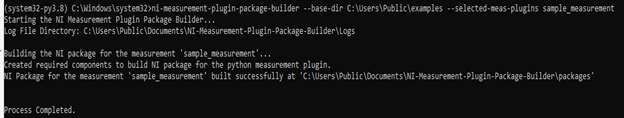
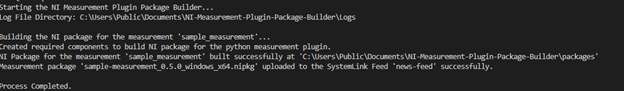
docs: Update HLD images

Changed region(s): [[0.0, 0.0, 1.0, 1.0], [0.0609, 0.0, 0.0913, 0.022]]

diff --git a/docs/HLD/ni_package_builder_hld.md b/docs/HLD/ni_package_builder_hld.md
@@ -119,6 +119,12 @@ Once the required files have been created under the respective folders. The tool
   `ni-measurement-plugin-package-builder --base-dir <measurement_plugin_base_directory> --selected-meas-plugins <list_of_comma_separated_meas_plugins>`
   For example,
   `ni-measurement-plugin-package-builder --base-dir "C:/Users/examples" --selected-meas-plugins "sample_measurement,test_measurement"`
+- To upload the single measurement package to systemlink, run the following command,
+    `ni-measurement-plugin-package-builder --plugin-dir <measurement_plugin_directory> --upload-packages --api-url <systemlink_api_url> --api-key <systemlink_api_key> --workspace <workspace_name> --feed-name <name_of_the_feed>`
+    Example: `ni-measurement-plugin-package-builder --plugin-dir "C:\Users\examples\sample_measurement" --upload-packages --api-url "https://dev-api.lifecyclesolutions.ni.com/" --api-key "123234" --workspace "sample_workspace" --feed-name "example_feed"`
+- To upload the multiple measurement packages to systemlink, run the following command,
+    `ni-measurement-plugin-package-builder --base-dir <measurement_plugin_base_directory> --selected-meas-plugins <list_of_comma_separated_meas_plugins> --upload-packages --api-url <systemlink_api_url> --api-key <systemlink_api_key> --workspace <workspace_name> --feed-name <name_of_the_feed>`
+    Example: `ni-measurement-plugin-package-builder --base-dir "C:\Users\examples" --selected-meas-plugins "sample_measurement,testing_measurement" --upload-packages --api-url "https://dev-api.lifecyclesolutions.ni.com/" --api-key "123234" --workspace "sample_workspace" --feed-name "example_feed"`
 - Input arguments should be provided within double quotes.
 - For building multiple measurements both the required inputs will be required like base directory and selected measurement plugins.
   ![non_interactive_mode](non_interactive_mode.png)
@@ -129,8 +135,12 @@ Once the required files have been created under the respective folders. The tool
   `ni-measurement-plugin-package_builder -i`
 - Users will be prompted to enter the required inputs for building measurements.
 - To build multiple measurement plugins, the parent directory containing the measurement plugin folders must be provided.
+- Users can provide comma separated measurement plugin indexes, for building measurements.
 - The command line interface will show the directory where the .nipkg files are generated.
   ![interactive_mode](interactive_mode.png)
+
+
+Note: For uploading the packages, if the API URL and Workspace are not provided then the `SystemLink client configuration` will be utilized, whereas API key and Feed name must be provided.
 
 ## Alternative implementations and designs
 
